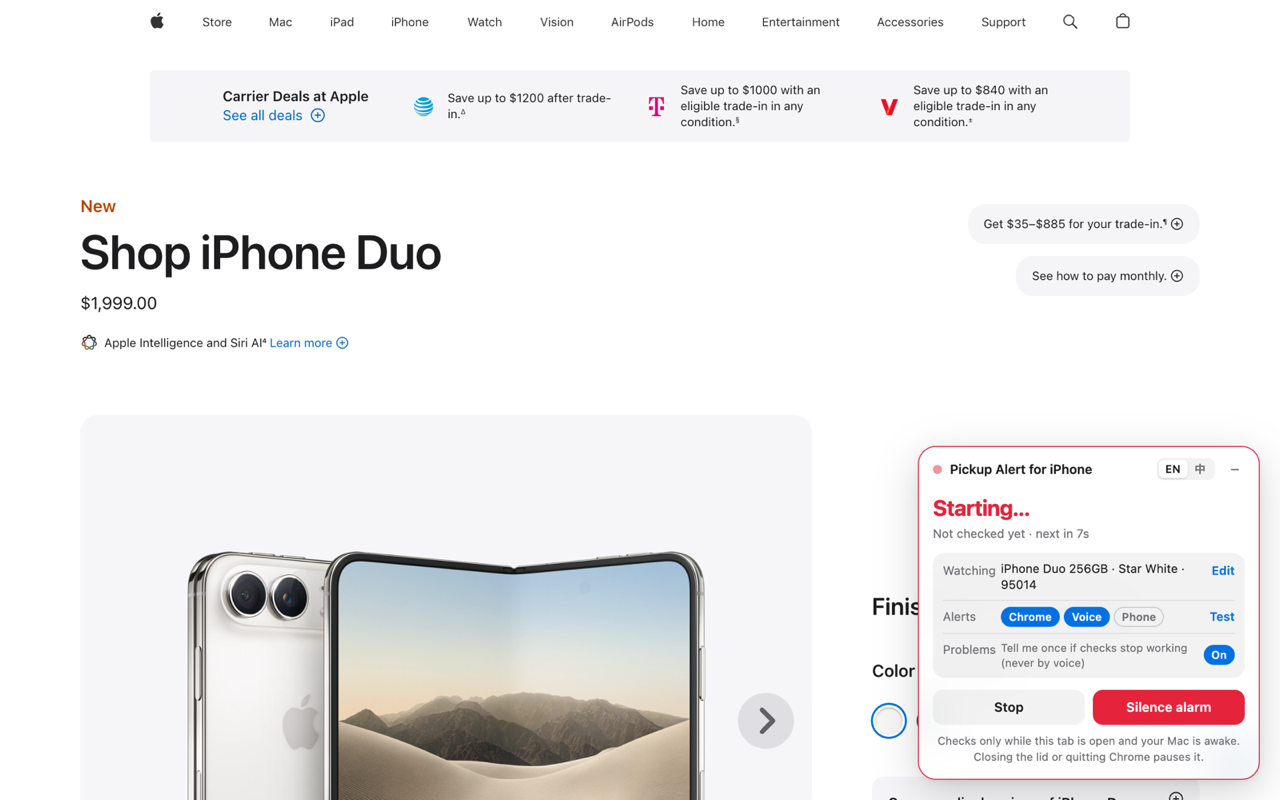
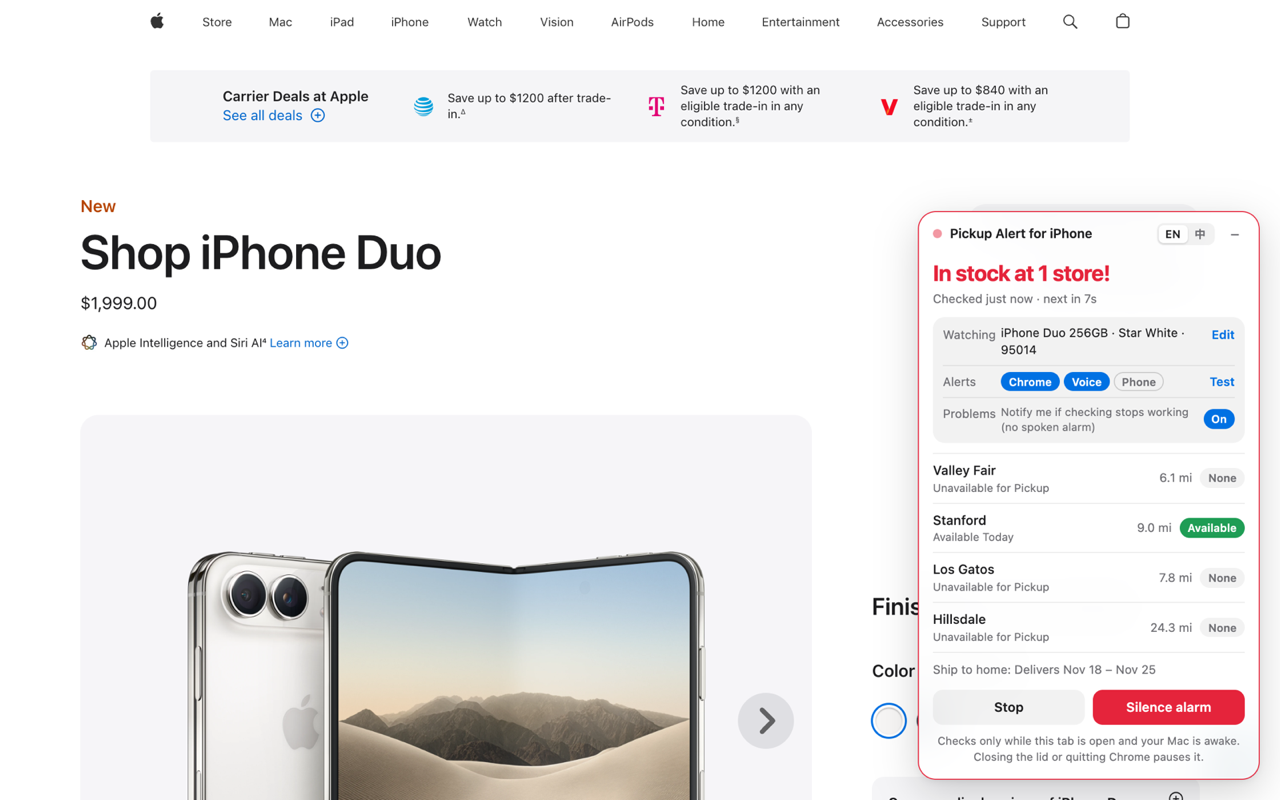
Refresh screenshots for 1.1.0 wording

Changed region(s): [[0.7188, 0.4062, 0.9688, 0.8438], [0.7188, 0.25, 0.9688, 0.375], [0.5938, 0.0938, 0.625, 0.125]]

diff --git a/store/assets.html b/store/assets.html
@@ -19,8 +19,11 @@
   #marquee h1 { font-size: 72px; line-height: 1.05; font-weight: 700; letter-spacing: -1.5px; }
   #marquee p { margin-top: 22px; font-size: 30px; line-height: 1.35; opacity: .9; }
 
-  #alerts { width: 1280px; height: 800px; padding: 0 90px; align-items: center; gap: 60px; background: #ececee; color: #1d1d1f; }
-  #alerts img { flex: none; height: 680px; }
+  #alerts { width: 1280px; height: 800px; padding: 0 90px; align-items: center; gap: 60px; background: #f2f2f4; color: #1d1d1f; }
+  /* Fade the screenshot's edges into the page so its own shadow doesn't leave a box. */
+  #alerts img { flex: none; height: 680px;
+    -webkit-mask-image: linear-gradient(to right, transparent, #000 8%, #000 92%, transparent), linear-gradient(transparent, #000 8%, #000 92%, transparent);
+    -webkit-mask-composite: source-in; mask-composite: intersect; }
   #alerts h1 { font-size: 44px; line-height: 1.1; font-weight: 700; letter-spacing: -1px; }
   #alerts ul { margin-top: 30px; padding: 0; list-style: none; font-size: 22px; line-height: 1.45; color: #424245; }
   #alerts li + li { margin-top: 18px; }
@@ -59,7 +62,7 @@
       <li><b>Chrome notification</b> that stays until you click it</li>
       <li><b>Your Mac's voice</b> repeats it until you silence it</li>
       <li><b>Push to your phone</b> with the free ntfy app</li>
-      <li>Optional, quiet warnings if checking stops</li>
+      <li>Optional notice if checking stops (no spoken alarm)</li>
     </ul>
   </div>
 </section>
